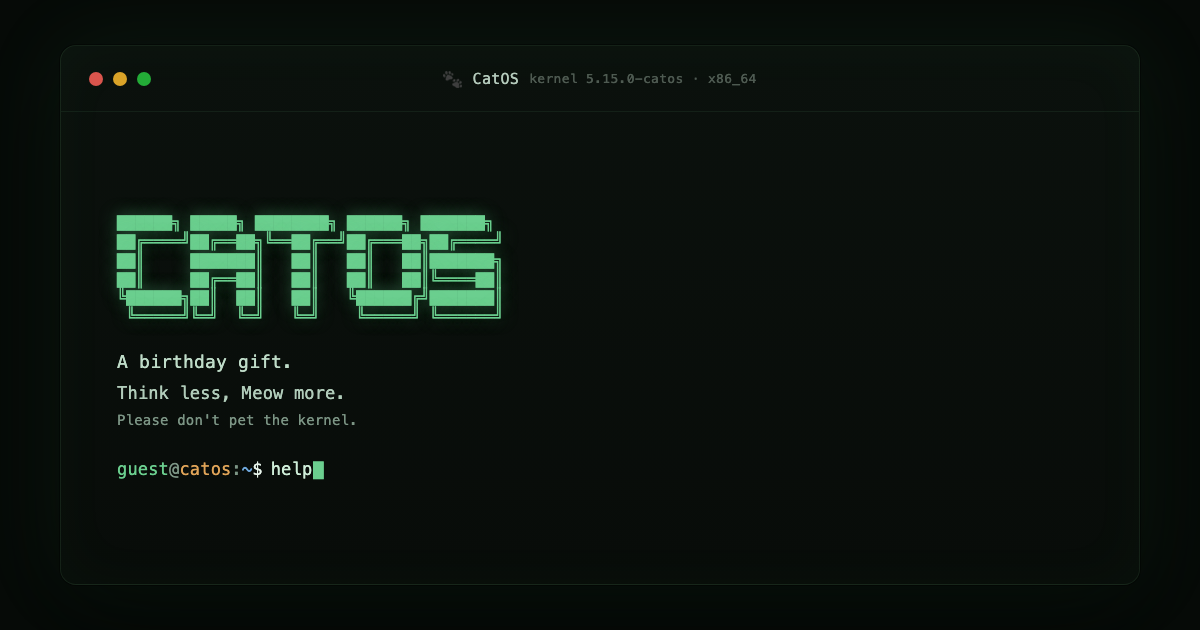
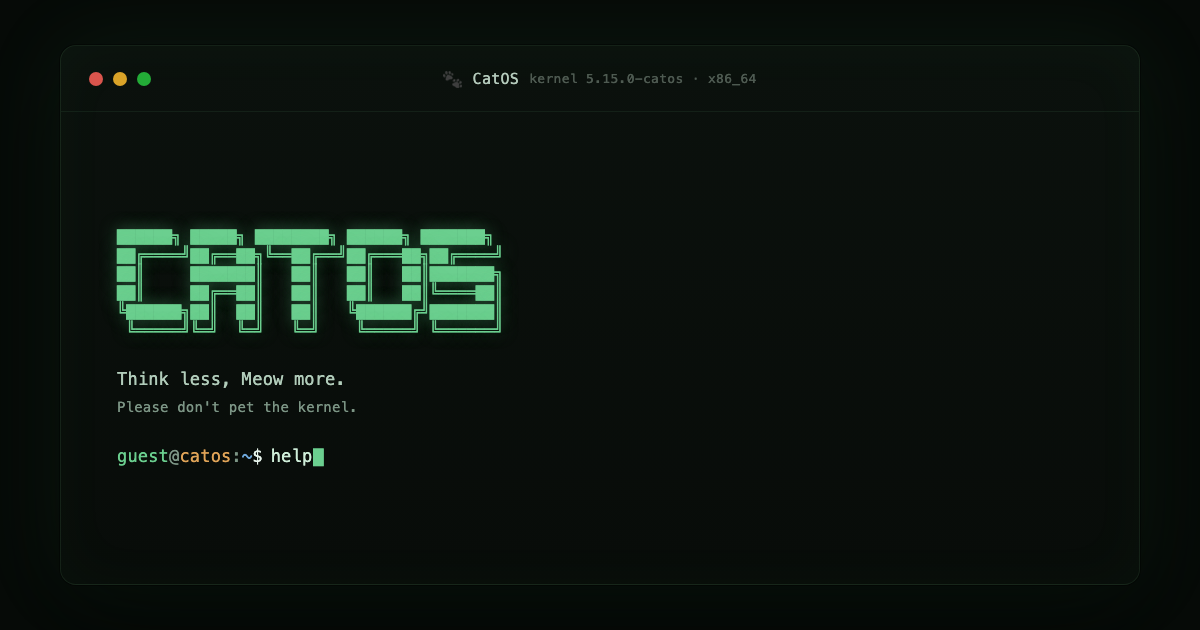
Drop tagline line from thumbnail entirely
Lead with the ASCII logo and the "Think less, Meow more." line only.

Changed region(s): [[0.0925, 0.3317, 0.4317, 0.754]]

diff --git a/index.html b/index.html
@@ -4,19 +4,19 @@
 <meta charset="UTF-8">
 <meta name="viewport" content="width=device-width, initial-scale=1.0">
 <title>CatOS</title>
-<meta name="description" content="A birthday gift. Type `help` to get started.">
+<meta name="description" content="Think less, Meow more. Please don't pet the kernel.">
 
 <meta property="og:type" content="website">
 <meta property="og:url" content="https://krutiee.github.io/catos/">
 <meta property="og:title" content="CatOS">
-<meta property="og:description" content="A birthday gift. Type `help` to get started.">
+<meta property="og:description" content="Think less, Meow more. Please don't pet the kernel.">
 <meta property="og:image" content="https://krutiee.github.io/catos/og-image.png">
 <meta property="og:image:width" content="1200">
 <meta property="og:image:height" content="630">
 
 <meta name="twitter:card" content="summary_large_image">
 <meta name="twitter:title" content="CatOS">
-<meta name="twitter:description" content="A birthday gift. Type `help` to get started.">
+<meta name="twitter:description" content="Think less, Meow more. Please don't pet the kernel.">
 <meta name="twitter:image" content="https://krutiee.github.io/catos/og-image.png">
 <link rel="stylesheet" href="style.css">
 </head>